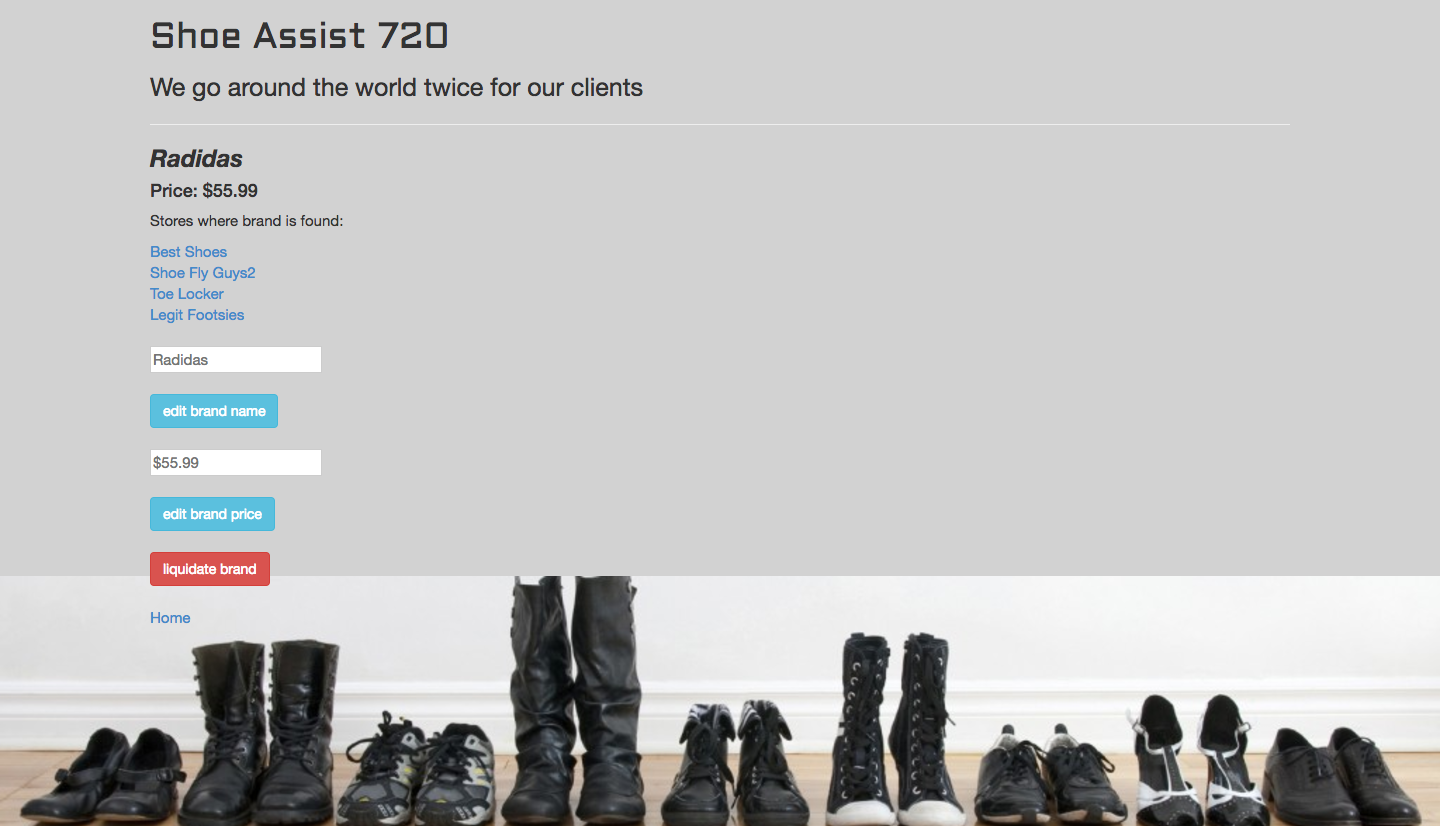
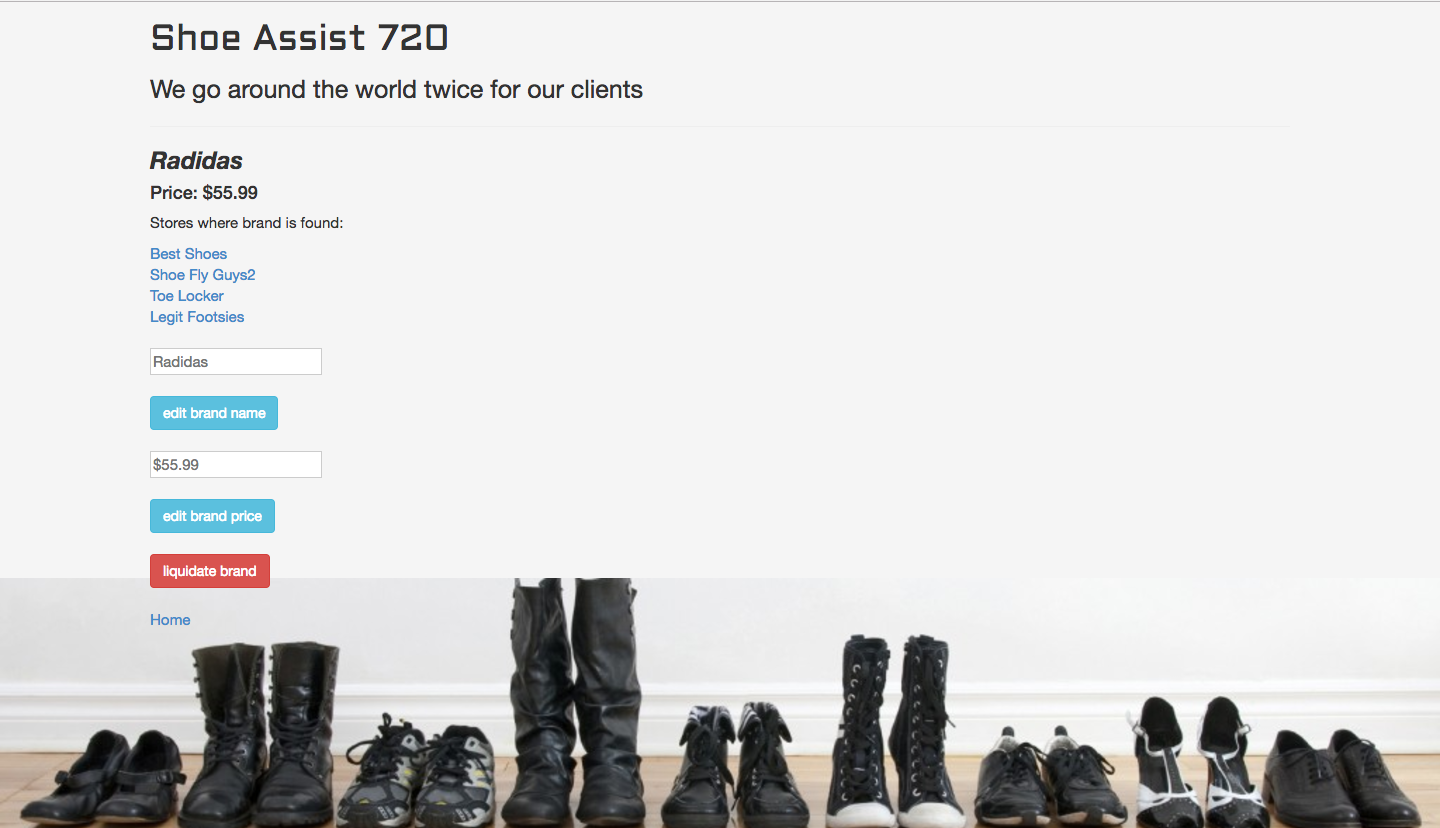
opt for a lighter background shade of grey. update all screenshots

diff --git a/public/css/styles.css b/public/css/styles.css
@@ -3,7 +3,7 @@ li {
 }
 
 body {
-  background-color: rgb(210, 210, 210);
+  background-color: rgb(245, 245, 245);
   font-size: 15px;
 }
 
